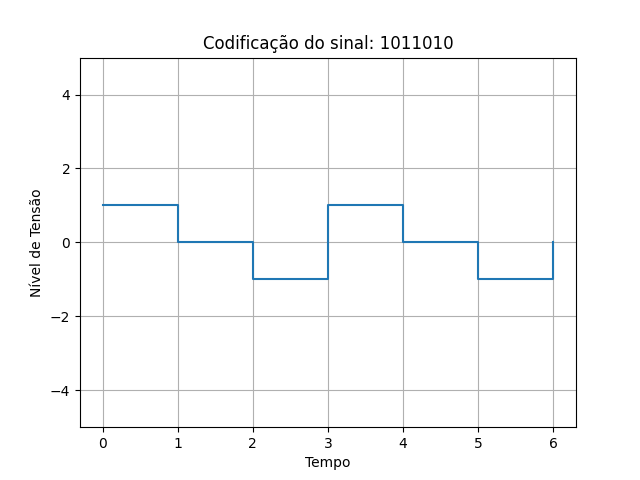
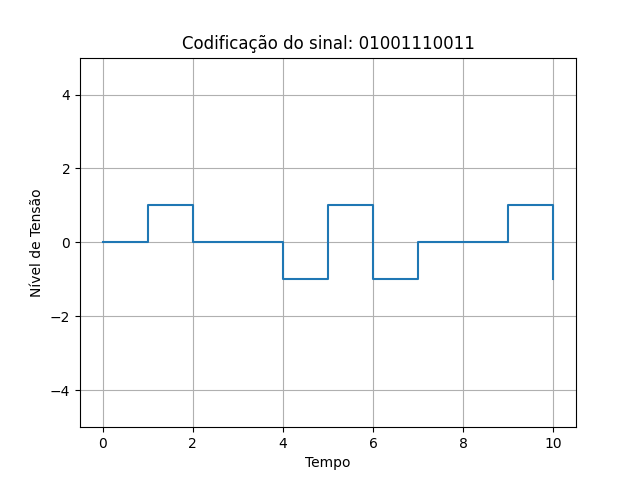
add comentarios sobre os codigos de linha

diff --git a/Trabalho1/codificadores.py b/Trabalho1/codificadores.py
@@ -156,26 +156,48 @@ def unipolar_rz(data: str) -> list[int]:
     return result
 
 """ 
-    NRZ-L - WORKING
+    NRZ-L - bit 0: tensao 1     I    bit 1: tensao 0
 
-    NRZ-I - WORKING
+    NRZ-I - bit 0: mantem a mesma tensao    I   bit 1: inverte a tensao 
 
-    AMI - WORKING 
+    AMI - bit 0: tensao 0   I   bit 1: inverte tensao (-1, 1) 
 
-    Pseudoternário - WORKING
+    Pseudoternário - bit 0: inverte tensao (-1, 1)      I       bit 1: tensao 0      
 
-    Manchester - WORKING 
+    Manchester - bit 0: descida (1, 0)     I       bit 1: subida (0, 1)
 
-    Manchester Diferencial - WORKING 
+    Manchester Diferencial - bit 0: inverte [(1, 0), (0, 1)]    I   bit 1: nao inverte
 
-    b8zs - WORKING 
+    b8zs - eh um AMI que quando tem 1 seguido de 00000000 retorna 000+-0-+, se for -1 retorna 000-+0+-
 
-    hdb3 - WORKING
+    hdb3 - eh um AMI que (contendo 0000):
+            1: {
+                par: -00-
+                impar: 000+
+            }
+            -1 {
+                par: +00+
+                impar: 000-
+            }
 
-    unipolar - WORKING
+    unipolar - bit 0: fica um ciclo com tensao 0    I   bit 1: fica meio periodo em 1
 
-    ternary - WORKING
+    ternary - 
+        0: {
+            anterior: {
+                1: -1
+                0: -1
+                -1: 0
+            }
+        }
+        1: {
+            anterior: {
+                1: 0
+                0: 1
+               -1: 1
+            }    
+        }
 
-    mlt 3 WORKING
+    mlt 3 - bit 0: tensao mantem a mesma        I       bit 1: vai alternando entre 1 -> 0 -> -1 -> 0
 
 """

diff --git a/Trabalho1/main.py b/Trabalho1/main.py
@@ -1,7 +1,7 @@
 from codificadores import b8zs, nrz_l, nrz_i, ami, pseudoternary, manchester, manchester_differential, hdb3, mlt_3, ternary_nrz, unipolar_rz
 from plot import plot_sinal
 
-bits = "1011010"
+bits = "01001110011"
 sinal_b8zs = b8zs(bits)
 sinal_nrzl = nrz_l(bits)
 sinal_nrzi = nrz_i(bits)
